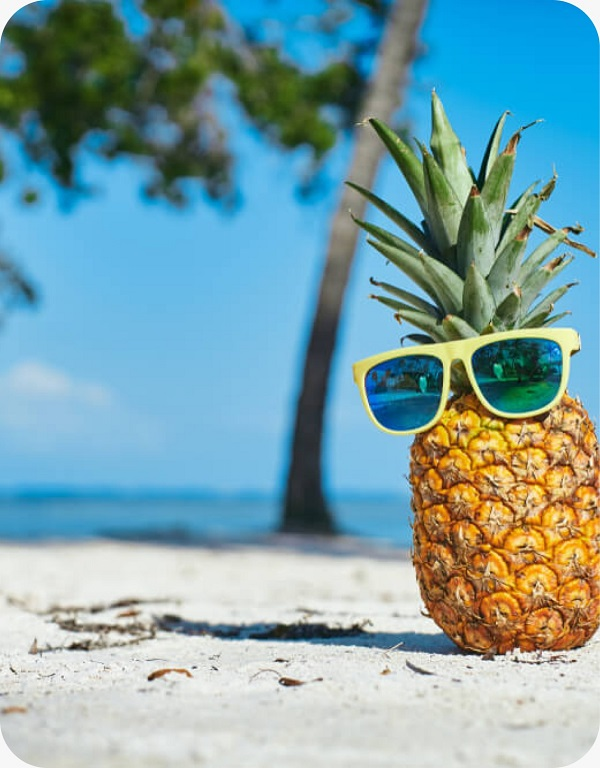
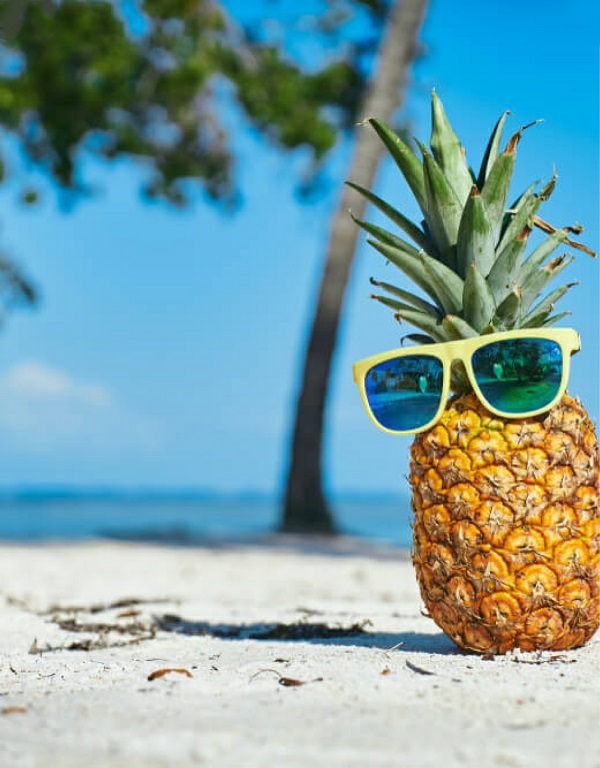
login-screen fixed

diff --git a/login-screen/styles/style.css b/login-screen/styles/style.css
@@ -1,4 +1,3 @@
-
 body {
     font-family: 'Inter';
     background-color: #f0f0f0;
@@ -23,8 +22,11 @@ body {
 
 .logo-header {
     width: 100%;
-    background-color: #4e0070;
-    text-align: center;
+    height: 80px;
+    background-color: #44116f;
+    display: flex;
+    justify-content: center;
+    align-items: center;
     position: absolute;
     top: 0;
     left: 0;
@@ -32,7 +34,8 @@ body {
 }
 
 .logo-header img {
-    width: 180px;
+    width: 150px;
+    cursor: pointer;
 }
 
 .login-container {
@@ -44,7 +47,7 @@ body {
     width: 800px;
     max-width: 90%;
     margin-top: 20px;
-    
+
 }
 
 .login-image-container {
@@ -52,7 +55,7 @@ body {
 }
 
 .login-image {
-    border-radius: 10px 0 0 10px;
+    border-radius: 5px 0px 0px 5px;
     width: 100%;
     height: 100%;
     object-fit: cover;
@@ -107,7 +110,7 @@ body {
 
 .spinner {
     border: 4px solid rgba(0, 0, 0, 0.1);
-    border-left-color: #4e0070; 
+    border-left-color: #4e0070;
     border-radius: 50%;
     width: 30px;
     height: 30px;
@@ -119,6 +122,7 @@ body {
     0% {
         transform: rotate(0deg);
     }
+
     100% {
         transform: rotate(360deg);
     }

diff --git a/login-screen/index.html b/login-screen/index.html
@@ -7,12 +7,13 @@
     <title>Tela de Login</title>
     <link rel="icon" type="icon/png" href="../top-bar/img/icon.png">
     <link rel="stylesheet" href="styles/style.css">
+    <link href='https://fonts.googleapis.com/css?family=Inter' rel='stylesheet'>
 </head>
 
 <body>
-    <header class="logo-header">
+    <a class="logo-header" onclick="window.location.href='../initial-screen/index.html'">
         <img src="img/logo.png" alt="Logo">
-    </header>
+    </a>
     <div class="login-container">
         <div class="login-image-container">
             <img src="img/pineapple.png" alt="Abacaxi" class="login-image">
